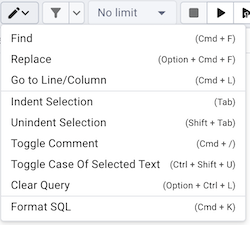
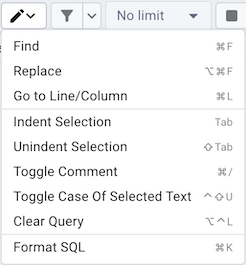
Ensure that keyboard shortcuts are displayed in tooltips, context menus, and the main menu. #1923

diff --git a/web/pgadmin/browser/static/js/node.js b/web/pgadmin/browser/static/js/node.js
@@ -113,7 +113,7 @@ define('pgadmin.browser.node', [
       if (self.node_initialized)
         return;
       self.node_initialized = true;
-
+      
       pgAdmin.Browser.add_menus([{
         name: 'refresh',
         node: self.type,
@@ -122,6 +122,7 @@ define('pgadmin.browser.node', [
         callback: 'refresh',
         priority: 2,
         label: gettext('Refresh...'),
+        shortcut_preference: ['browser', 'sub_menu_refresh'],        
         enable: true,
       }]);
 
@@ -137,6 +138,7 @@ define('pgadmin.browser.node', [
           data: {
             'action': 'edit',
           },
+          shortcut_preference: ['browser', 'sub_menu_properties'],
           enable: _.isFunction(self.canEdit) ?
             function() {
               return !!(self.canEdit(...arguments));
@@ -158,6 +160,7 @@ define('pgadmin.browser.node', [
             'url': 'drop',
             data_disabled: gettext('The selected tree node does not support this option.'),
           },
+          shortcut_preference: ['browser', 'sub_menu_delete'],
           enable: _.isFunction(self.canDrop) ?
             function() {
               return !!(self.canDrop(...arguments));
@@ -205,6 +208,7 @@ define('pgadmin.browser.node', [
           label: gettext('Query Tool'),
           enable: enable,
           permission: AllPermissionTypes.TOOLS_QUERY_TOOL,
+          shortcut_preference: ['browser', 'sub_menu_query_tool'],        
         }]);
 
         // show search objects same as query tool
@@ -214,6 +218,7 @@ define('pgadmin.browser.node', [
           priority: 997, label: gettext('Search Objects...'),
           icon: 'fa fa-search', enable: enable,
           permission: AllPermissionTypes.TOOLS_SEARCH_OBJECTS,
+          shortcut_preference: ['browser', 'sub_menu_search_objects'],
         }]);
 
         if(pgAdmin['enable_psql']) {

diff --git a/web/pgadmin/browser/static/js/MainMenuFactory.js b/web/pgadmin/browser/static/js/MainMenuFactory.js
@@ -12,6 +12,7 @@ import Menu, { MenuItem } from '../../../static/js/helpers/Menu';
 import getApiInstance from '../../../static/js/api_instance';
 import url_for from 'sources/url_for';
 import withCheckPermission from './withCheckPermission';
+import usePreferences from '../../../preferences/static/js/store';
 
 const MAIN_MENUS = [
   { label: gettext('File'), name: 'file', id: 'mnu_file', index: 0, addSeprator: true, hasDynamicMenuItems: false },
@@ -95,6 +96,33 @@ export default class MainMenuFactory {
       pgAdmin.Browser.Events.trigger('pgadmin:enable-disable-menu-items', menu, item);
       window.electronUI?.enableDisableMenuItems(menu?.serialize(), item?.serialize());
     });
+  }
+
+  static updateShortcutsFromPreferences(prefStore)  {
+    const updateShortcuts = (item) => {
+      if (!item || typeof item !== 'object') return;
+
+      Object.values(item).forEach((menuItem) => {
+        if (!menuItem || typeof menuItem !== 'object') return;
+
+        if (menuItem?.shortcut_preference) {
+          const [module, key] = menuItem.shortcut_preference;
+          menuItem.shortcut = prefStore.getPreferences(module, key)?.value || null;
+        }
+        // Recurse only if it's a nested object.
+        if (!menuItem.name) {
+          updateShortcuts(menuItem);
+        }
+      });
+    };
+    let allMenus = pgAdmin.Browser?.all_menus_cache || {};
+    Object.values(allMenus).forEach(updateShortcuts);
+  };
+
+  // Assign and Update menu shortcuts using preference.
+  static subscribeShortcutChanges() {
+    MainMenuFactory.updateShortcutsFromPreferences(usePreferences.getState());
+    usePreferences.subscribe(MainMenuFactory.updateShortcutsFromPreferences);
   }
 
   static enableDisableMenus(item) {

diff --git a/web/pgadmin/static/js/components/ShortcutTitle.jsx b/web/pgadmin/static/js/components/ShortcutTitle.jsx
@@ -59,19 +59,19 @@ export function shortcutToString(shortcut, accesskey=null, asArray=false) {
     keys = getBrowserAccesskey();
     keys.push(_.capitalize(accesskey?.toUpperCase()));
   } else if(shortcut) {
-    shortcut.alt && keys.push((isMac() ? 'Option' : 'Alt'));
+    if(shortcut.alt) keys.push(isMac() ? '⌥' : 'Alt');
     if(isMac() && shortcut.ctrl_is_meta) {
-      shortcut.control && keys.push('Cmd');
+      if(shortcut.control) keys.push('⌘');
     } else {
-      shortcut.control && keys.push('Ctrl');
+      if(shortcut.control) keys.push(isMac() ? '⌃' : 'Ctrl');
     }
-    shortcut.shift && keys.push('Shift');
+    if(shortcut.shift) keys.push(isMac() ? '⇧' : 'Shift');
     keys.push(_.capitalize(shortcut.key.char));
   } else {
     return '';
   }
 
-  return asArray ? keys : keys.join(' + ');
+  return asArray || isMac() ? keys : keys.join(' + ');
 }
 
 /* The tooltip content to show shortcut details */
@@ -82,8 +82,8 @@ export default function ShortcutTitle({title, shortcut, accesskey}) {
     (<Root>
       <div className='ShortcutTitle-title'>{title}</div>
       <div className='ShortcutTitle-shortcut'>
-        {keys.map((key)=>{
-          return <div key={key} className='ShortcutTitle-key'>{key}</div>;
+        {keys.map((key, idx)=>{
+          return <div key={idx} className='ShortcutTitle-key'>{key}</div>;
         })}
       </div>
     </Root>)

diff --git a/web/pgadmin/static/js/components/Menu.jsx b/web/pgadmin/static/js/components/Menu.jsx
@@ -20,6 +20,7 @@ import {
 export {MenuDivider as PgMenuDivider} from '@szhsin/react-menu';
 import { shortcutToString } from './ShortcutTitle';
 import CustomPropTypes from '../custom_prop_types';
+import { Box } from '@mui/material';
 
 export function PgMenu({open, className='', label, menuButton=null, ...props}) {
   const state = open ? 'open' : 'closed';
@@ -81,9 +82,26 @@ export const PgMenuItem = (({hasCheck=false, checked=false, accesskey, shortcut,
   return <MenuItem {...props} onClick={onClick} data-label={dataLabel} data-checked={checked}>
     {hasCheck && <CheckIcon  style={checked ? {} : {visibility: 'hidden', width: '1.3rem'}} data-label="CheckIcon"/>}
     {children}
-    <div style={{ marginLeft:'auto', fontSize:'0.8em', paddingLeft:'12px'}}>
-      {keyVal ? `(${keyVal})` : ''}
-    </div>
+    <Box
+      sx={{
+        marginLeft: 'auto',
+        fontSize: '0.8em',
+        paddingLeft: '12px',
+        display: 'flex',
+        gap: '1px',
+        color: 'text.muted',
+        '.szh-menu__item--hover &': {
+          color: 'primary.contrastText',
+        },
+      }}
+    >
+      {Array.isArray(keyVal)
+        ? keyVal.map((key, idx) => (
+          <Box key={idx} component="div">{key}</Box>
+        ))
+        : <Box component="div"> {keyVal ? `${keyVal}` : ''}</Box>
+      }
+    </Box>
   </MenuItem>;
 });
 

diff --git a/web/pgadmin/browser/static/js/browser.js b/web/pgadmin/browser/static/js/browser.js
@@ -206,6 +206,14 @@ define('pgadmin.browser', [
     uiloaded: function() {
       this.set_master_password('');
       this.check_version_update();
+      const prefStore = usePreferences.getState();
+      let save_the_workspace = prefStore.getPreferencesForModule('misc').save_app_state;
+      if(save_the_workspace){
+        this.restore_pgadmin_state();
+        pgBrowser.docker.default_workspace.focus();
+      }
+      // Assign and Update shortcuts from preferences.
+      MainMenuFactory.subscribeShortcutChanges();
     },
     check_corrupted_db_file: function() {
       getApiInstance().get(
@@ -392,6 +400,8 @@ define('pgadmin.browser', [
                 below: _m.below,
                 applies: _m.applies,
                 permission: _m.permission,
+                shortcut_preference: _m.shortcut_preference,
+                shortcut:_m.shortcut
               };
             };
 
@@ -406,7 +416,7 @@ define('pgadmin.browser', [
               }
               _menus[m.name]['menu_items'] = sub_menu_items;
             }
-          } else  {
+          } else {
             console.warn(
               'Developer warning: Category \'' +
                   a +

diff --git a/web/pgadmin/browser/static/js/collection.js b/web/pgadmin/browser/static/js/collection.js
@@ -45,6 +45,7 @@ define([
           name: 'refresh', node: this.type, module: this,
           applies: ['object', 'context'], callback: 'refresh',
           priority: 2, label: gettext('Refresh'),
+          shortcut_preference: ['browser', 'sub_menu_refresh'],
         }]);
 
         // show query tool only in context menu of supported nodes.
@@ -55,6 +56,7 @@ define([
               applies: ['context'], callback: 'show_query_tool',
               priority: 998, label: gettext('Query Tool'),
               permission: AllPermissionTypes.TOOLS_QUERY_TOOL,
+              shortcut_preference: ['browser', 'sub_menu_query_tool'],
             }]);
 
             // show search objects same as query tool
@@ -63,6 +65,7 @@ define([
               applies: ['context'], callback: 'show_search_objects',
               priority: 997, label: gettext('Search Objects...'),
               permission: AllPermissionTypes.TOOLS_SEARCH_OBJECTS,
+              shortcut_preference: ['browser', 'sub_menu_search_objects'],
             }]);
 
             // show psql tool same as query tool.

diff --git a/web/pgadmin/browser/server_groups/servers/databases/schemas/tables/rules/static/js/rule.js b/web/pgadmin/browser/server_groups/servers/databases/schemas/tables/rules/static/js/rule.js
@@ -87,6 +87,7 @@ define('pgadmin.node.rule', [
           applies: ['object', 'context'], callback: 'show_obj_properties',
           category: 'create', priority: 1, label: gettext('Rule...'),
           data: {action: 'create', check: true}, enable: 'canCreate',
+          shortcut_preference: ['browser', 'sub_menu_create'],
         },{
           name: 'create_rule_onView', node: 'view', module: this,
           applies: ['object', 'context'], callback: 'show_obj_properties',
@@ -97,6 +98,7 @@ define('pgadmin.node.rule', [
           applies: ['object', 'context'], callback: 'show_obj_properties',
           category: 'create', priority: 1, label: gettext('Rule...'),
           data: {action: 'create', check: true}, enable: 'canCreate',
+          shortcut_preference: ['browser', 'sub_menu_create'],
         },{
           name: 'create_rule', node: 'table', module: this,
           applies: ['object', 'context'], callback: 'show_obj_properties',

diff --git a/web/pgadmin/browser/server_groups/servers/databases/schemas/foreign_tables/static/js/foreign_table.js b/web/pgadmin/browser/server_groups/servers/databases/schemas/foreign_tables/static/js/foreign_table.js
@@ -60,11 +60,13 @@ define('pgadmin.node.foreign_table', ['pgadmin.tables.js/enable_disable_triggers
           applies: ['object', 'context'], callback: 'show_obj_properties',
           category: 'create', priority: 4, label: gettext('Foreign Table...'),
           data: {action: 'create', check: true}, enable: 'canCreate',
+          shortcut_preference: ['browser', 'sub_menu_create'],
         },{
           name: 'create_foreign_table', node: 'foreign_table', module: this,
           applies: ['object', 'context'], callback: 'show_obj_properties',
           category: 'create', priority: 4, label: gettext('Foreign Table...'),
           data: {action: 'create', check: true}, enable: 'canCreate',
+          shortcut_preference: ['browser', 'sub_menu_create'],
         },{
           name: 'create_foreign_table', node: 'schema', module: this,
           applies: ['object', 'context'], callback: 'show_obj_properties',

diff --git a/web/pgadmin/browser/server_groups/servers/databases/schemas/domains/domain_constraints/static/js/domain_constraints.js b/web/pgadmin/browser/server_groups/servers/databases/schemas/domains/domain_constraints/static/js/domain_constraints.js
@@ -53,6 +53,7 @@ define('pgadmin.node.domain_constraints', [
           applies: ['object', 'context'], callback: 'show_obj_properties',
           category: 'create', priority: 5, label: gettext('Domain Constraint...'),
           data: {action: 'create', check: true}, enable: 'canCreate',
+          shortcut_preference: ['browser', 'sub_menu_create'],
         },{
           name: 'create_domain_constraints', node: 'domain_constraints', module: this,
           applies: ['object', 'context'], callback: 'show_obj_properties',
@@ -63,6 +64,7 @@ define('pgadmin.node.domain_constraints', [
           applies: ['object', 'context'], callback: 'show_obj_properties',
           category: 'create', priority: 5, label: gettext('Domain Constraint...'),
           data: {action: 'create', check: false}, enable: 'canCreate',
+          shortcut_preference: ['browser', 'sub_menu_create'],
         },
         ]);
 

diff --git a/web/pgadmin/browser/server_groups/servers/databases/schemas/functions/static/js/trigger_function.js b/web/pgadmin/browser/server_groups/servers/databases/schemas/functions/static/js/trigger_function.js
@@ -66,11 +66,13 @@ define('pgadmin.node.trigger_function', [
           applies: ['object', 'context'], callback: 'show_obj_properties',
           category: 'create', priority: 4, label: gettext('Trigger function...'),
           data: {action: 'create', check: true}, enable: 'canCreate',
+          shortcut_preference: ['browser', 'sub_menu_create'],
         },{
           name: 'create_trigger_function', node: 'trigger_function', module: this,
           applies: ['object', 'context'], callback: 'show_obj_properties',
           category: 'create', priority: 4, label: gettext('Trigger function...'),
           data: {action: 'create', check: true}, enable: 'canCreate',
+          shortcut_preference: ['browser', 'sub_menu_create'],
         },{
           name: 'create_trigger_function', node: 'schema', module: this,
           applies: ['object', 'context'], callback: 'show_obj_properties',

diff --git a/web/pgadmin/browser/server_groups/servers/databases/schemas/functions/static/js/procedure.js b/web/pgadmin/browser/server_groups/servers/databases/schemas/functions/static/js/procedure.js
@@ -60,11 +60,13 @@ define('pgadmin.node.procedure', [
           applies: ['object', 'context'], callback: 'show_obj_properties',
           category: 'create', priority: 4, label: gettext('Procedure...'),
           data: {action: 'create', check: false}, enable: 'canCreateProc',
+          shortcut_preference: ['browser', 'sub_menu_create'],
         },{
           name: 'create_procedure', node: 'procedure', module: this,
           applies: ['object', 'context'], callback: 'show_obj_properties',
           category: 'create', priority: 4, label: gettext('Procedure...'),
           data: {action: 'create', check: true}, enable: 'canCreateProc',
+          shortcut_preference: ['browser', 'sub_menu_create'],
         },{
           name: 'create_procedure', node: 'schema', module: this,
           applies: ['object', 'context'], callback: 'show_obj_properties',

diff --git a/web/pgadmin/browser/server_groups/servers/databases/foreign_data_wrappers/static/js/foreign_data_wrapper.js b/web/pgadmin/browser/server_groups/servers/databases/foreign_data_wrappers/static/js/foreign_data_wrapper.js
@@ -56,11 +56,13 @@ define('pgadmin.node.foreign_data_wrapper', [
           applies: ['object', 'context'], callback: 'show_obj_properties',
           category: 'create', priority: 4, label: gettext('Foreign Data Wrapper...'),
           data: {action: 'create'},
+          shortcut_preference: ['browser', 'sub_menu_create'],
         },{
           name: 'create_foreign_data_wrapper', node: 'foreign_data_wrapper', module: this,
           applies: ['object', 'context'], callback: 'show_obj_properties',
           category: 'create', priority: 4, label: gettext('Foreign Data Wrapper...'),
           data: {action: 'create'},
+          shortcut_preference: ['browser', 'sub_menu_create'],
         },{
           name: 'create_foreign_data_wrapper', node: 'database', module: this,
           applies: ['object', 'context'], callback: 'show_obj_properties',
